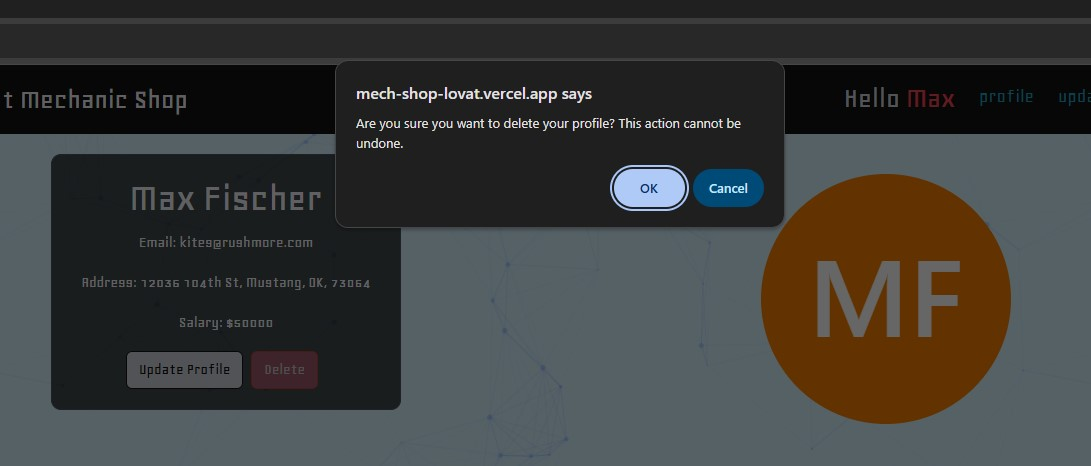
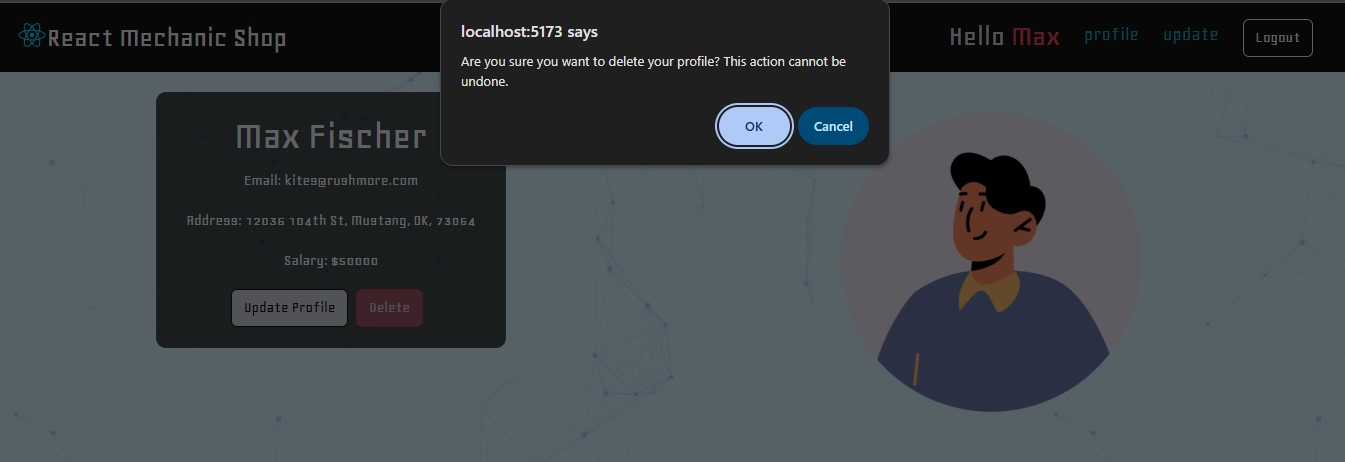
fixed delete

diff --git a/src/views/Profile.jsx b/src/views/Profile.jsx
@@ -80,7 +80,7 @@ const Profile = () => {
                 <p>Address: {profile.address}</p>
                 <p>Salary: ${profile.salary}</p>
                 <button className="btn btn-primary me-2" onClick={() => navigate('/update')} > Update Profile </button>
-                <button className="btn btn-danger me-2" > Delete </button>
+                <button className="btn btn-danger me-2" onClick={(e) =>handleDelete(e)}> Delete </button>
               </>
             ) : (
               <p>Loading profile or Missing Token...</p>
